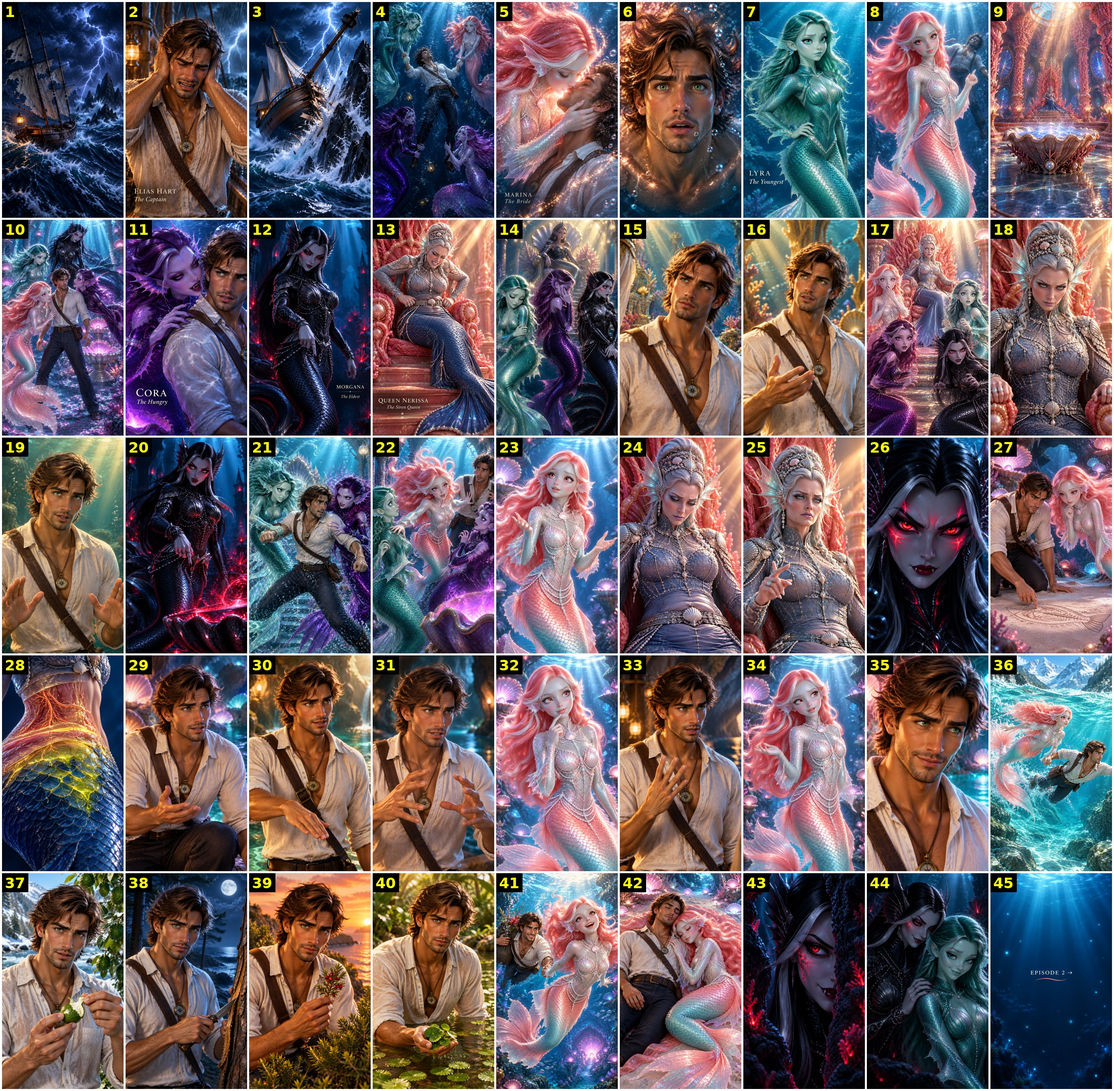
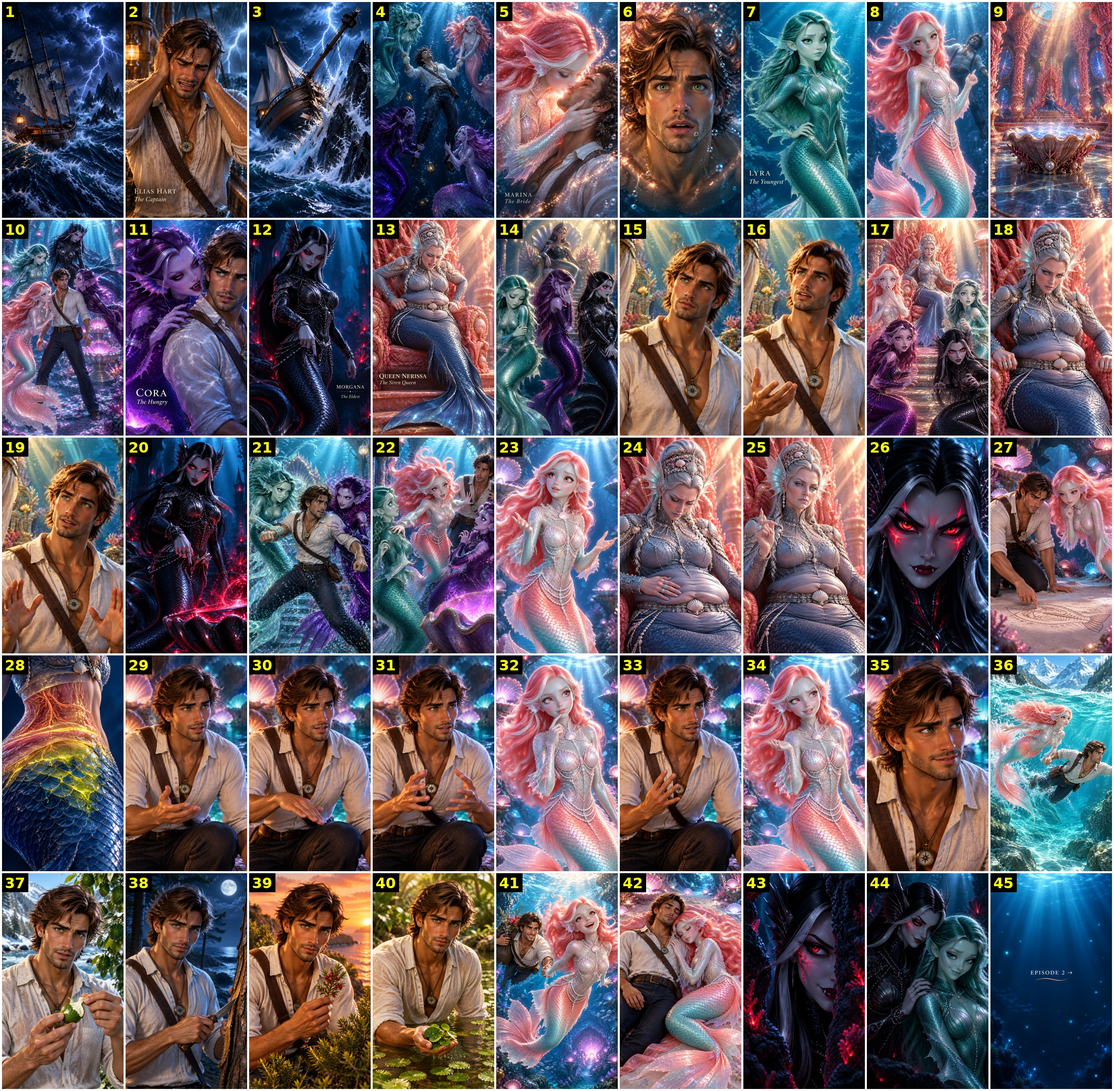
Sirens: queen belly frames + continuity redos
Claude-Session: https://claude.ai/code/session_01B91YnQnevLKqPhwBUBVUWL

diff --git a/projects/ora-siren/shots.md b/projects/ora-siren/shots.md
@@ -1,4 +1,5 @@
 # Enchanting Sirens Ep 1 - first frames (gpt_image_2_5, 9:16, default quality, v2 masters attached)
+Redone: queen 13 (obvious belly) -> 18, 24, 25 from 13; Elias grotto 30/31/33/35 from 29; Marina 34 from 32; Elias throne 16/19 from 15.
 
 | Clip | Frame job |
 |---|---|
@@ -14,29 +15,29 @@
 | 10 | 76c4e583-a16a-4e67-ae5f-efae59928d0d |
 | 11 | 9c99494a-74a6-4ec6-81df-c8edcb19b89a |
 | 12 | 5f7772be-7807-49da-8a69-9c5cf68f7f3f |
-| 13 | 63bbb80e-0f58-4d70-81a8-c1199598512c |
+| 13 | c8f76fbe-abde-4e0a-a4e1-2c3e4cf13062 |
 | 14 | 8f1fe019-88a5-4c40-99f5-f1b351cd04c4 |
 | 15 | dc0564af-11a0-4b2f-9f73-d8d44434fe0b |
-| 16 | 31064d7a-30be-4984-b480-8c9c6f99f3e4 |
+| 16 | 2cd5bc7d-c615-43b7-a472-636a9e8552cf |
 | 17 | 19d97333-e189-4594-9870-2ad6960a5a26 |
-| 18 | 292fad58-a1f7-47cb-98e7-1a251c0351f0 |
-| 19 | a1c64d24-7448-4604-84ec-038ff7e0bb0d |
+| 18 | e99bfb12-c1b0-4b08-a225-46606f0b3db5 |
+| 19 | 76a6297c-b4b2-44d7-bb8a-59aa1b6a143d |
 | 20 | c5dcfb6d-c777-480c-8a39-8f27e0c4e29d |
 | 21 | 00f1006f-b28c-489f-a8f6-e67000c19b30 |
 | 22 | 5df5199c-3818-4779-ba98-8a1c27202ecf |
 | 23 | bdeed4ae-caa0-4b92-8711-c34ae6d4ac10 |
-| 24 | cc359281-8bb5-46ba-aadb-5db958d89e5d |
-| 25 | 6a59b023-b89c-48d5-88f5-0feb0c5a6986 |
+| 24 | 74ed2193-1bed-43b4-a0db-f98c6e9e50ad |
+| 25 | 3a53eef4-915c-4ae9-a351-0f377b6c5ee8 |
 | 26 | 954058fa-a151-4c1e-8de8-d3bd5a33129c |
 | 27 | 1cdeaf29-b583-4fb6-adc4-0087b74adf4d |
 | 28 | 37800732-ed9a-4b62-b6a5-78df40791804 |
 | 29 | f6f30c1d-1e5f-48b0-91f2-e91eac087321 |
-| 30 | 909efb1e-402e-495f-b2d8-16619603a3d8 |
-| 31 | cc7d834c-2d4a-42d5-92ae-f4d36934446b |
+| 30 | 21d076aa-4f98-49f3-8275-485797245fde |
+| 31 | 39bef602-3bc1-453f-ab9d-d6c384dd97b3 |
 | 32 | 6e16ba55-e053-4293-9018-c0fc111cefcf |
-| 33 | ff6d07cb-efd0-4096-a5b4-0bec1cf122b7 |
-| 34 | 94ae52b1-6121-4adf-a858-ed5ffed679fa |
-| 35 | c6993ef2-03b0-4d37-b1b0-d8b742531958 |
+| 33 | 4220af68-d45c-4c2d-a8ed-466b63a08394 |
+| 34 | 2b61b3ea-2349-46d4-9932-906182488591 |
+| 35 | a30577a9-f443-4121-ac83-52b3dcf93bad |
 | 36 | 54938664-3d43-40f2-96e3-47930ba47d94 |
 | 37 | 4efc8edd-94e4-4be6-b7fd-06815db2c20c |
 | 38 | 3b1fb137-6866-472f-849d-111604d92760 |
